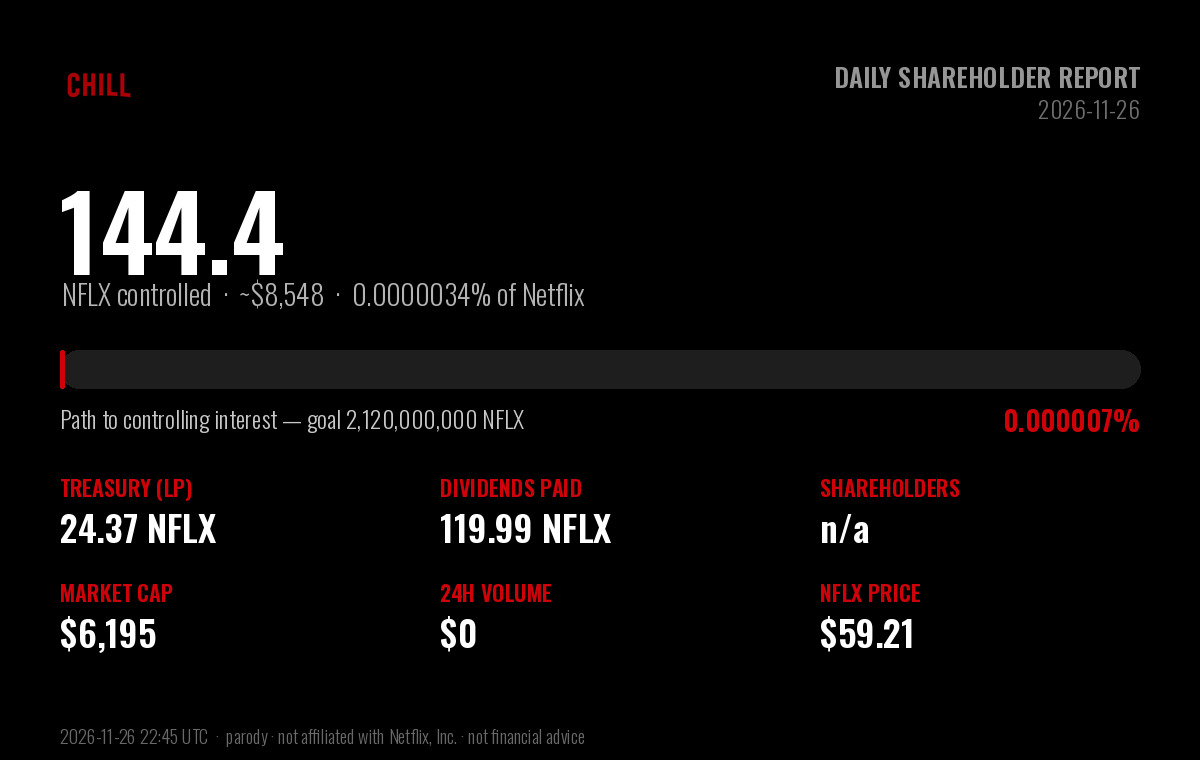
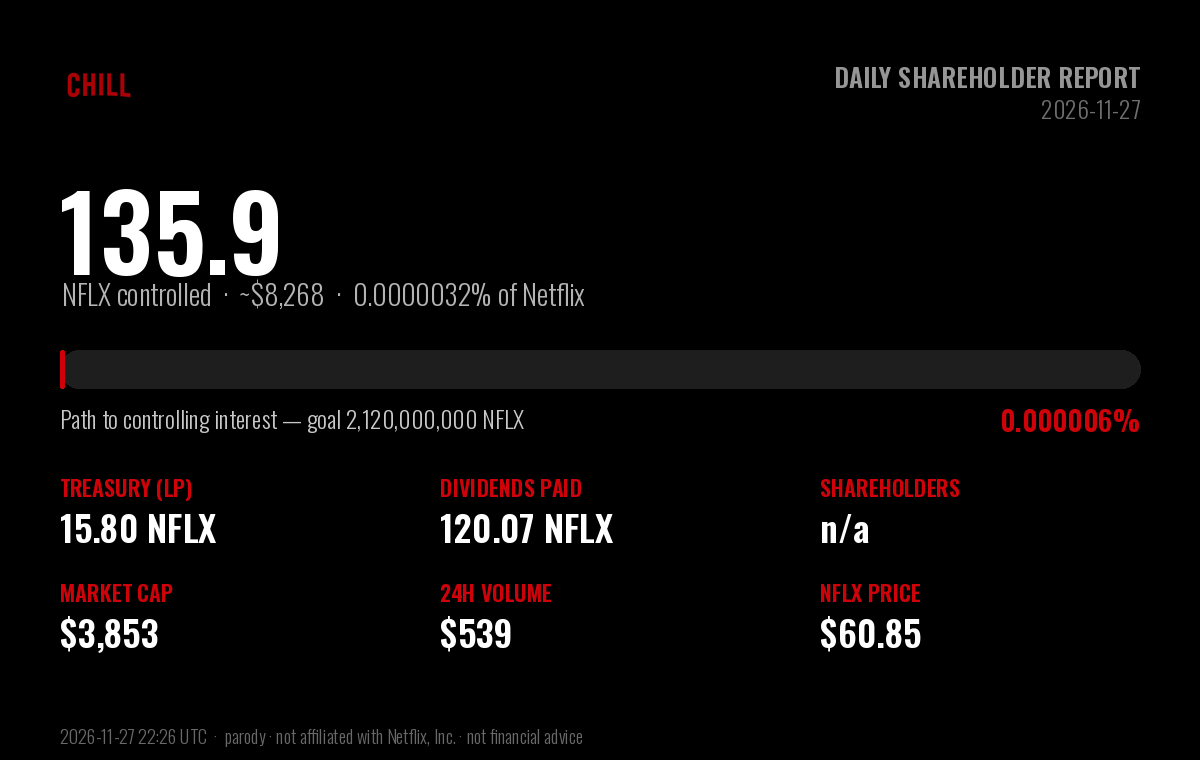
chore: daily $CHILL shareholder report (2026-11-27)

diff --git a/daily-holder-report/README.md b/daily-holder-report/README.md
@@ -1,6 +1,6 @@
 # $CHILL — Daily Shareholder Report
 
-### Netflix and Chill · Report to Shareholders · 2026-11-26
+### Netflix and Chill · Report to Shareholders · 2026-11-27
 
 > **Corporate objective:** acquire a controlling interest in Netflix (NFLX).
 > Netflix has **4,220,000,000** shares outstanding; a majority
@@ -13,53 +13,53 @@
 
 | Metric | Value |
 |---|---|
-| **NFLX under $CHILL control** | **144.36 NFLX** (~$8,548) |
-| Stake in Netflix | 0.000003421% of shares outstanding |
-| Progress to controlling interest | 0.0000068% of 2,120,000,000 |
-| Shares remaining to majority | 2,119,999,856 NFLX |
+| **NFLX under $CHILL control** | **135.88 NFLX** (~$8,268) |
+| Stake in Netflix | 0.000003220% of shares outstanding |
+| Progress to controlling interest | 0.0000064% of 2,120,000,000 |
+| Shares remaining to majority | 2,119,999,864 NFLX |
 
 ## Balance sheet — NFLX holdings
 
 | Holding | NFLX | USD |
 |---|---|---|
-| Treasury (protocol-owned liquidity) | 24.37 | $1,443 |
-| Dividends distributed to shareholders | 119.99 | $7,105 |
-| **Total NFLX controlled** | **144.36** | **$8,548** |
+| Treasury (protocol-owned liquidity) | 15.80 | $962 |
+| Dividends distributed to shareholders | 120.07 | $7,306 |
+| **Total NFLX controlled** | **135.88** | **$8,268** |
 
 ## Last 24 hours
 
 | Metric | Value |
 |---|---|
-| Trading volume | 0.00 NFLX (~$0) |
-| Net NFLX accumulated | 0.00 NFLX |
-| Dividends generated | 0.0000 NFLX |
-| Transactions | 0 (0 buys / 0 sells) |
-| $CHILL price change | -7.3% |
+| Trading volume | 8.86 NFLX (~$539) |
+| Net NFLX accumulated | -8.57 NFLX |
+| Dividends generated | 0.0886 NFLX |
+| Transactions | 16 (12 buys / 4 sells) |
+| $CHILL price change | -37.8% |
 
 ## Shareholder & market data
 
 | Metric | Value |
 |---|---|
 | Shareholders of record | n/a |
-| Lifetime unique participants | 1834 |
+| Lifetime unique participants | 1843 |
 | Shares outstanding ($CHILL) | 1,000,000,000 |
-| Market capitalization | $6,195 |
-| $CHILL price | $0.00000619 |
-| NFLX price | $59.21 |
-| Lifetime volume | 11,998.58 NFLX (~$710,456) |
-| Lifetime transactions | 8,653 (4,840 buys / 3,813 sells) |
-| Days since IPO (launch) | 130 |
+| Market capitalization | $3,853 |
+| $CHILL price | $0.00000385 |
+| NFLX price | $60.85 |
+| Lifetime volume | 12,007.44 NFLX (~$730,599) |
+| Lifetime transactions | 8,669 (4,852 buys / 3,817 sells) |
+| Days since IPO (launch) | 131 |
 
 ## Per-share metrics
 
 | Metric | Value |
 |---|---|
-| NFLX backing per 1M $CHILL | 0.144357 NFLX |
-| Dividends per 1M $CHILL | 0.119986 NFLX |
+| NFLX backing per 1M $CHILL | 0.135878 NFLX |
+| Dividends per 1M $CHILL | 0.120074 NFLX |
 
 ---
 
-*Report generated 2026-11-26 22:45 UTC · block 123,804,122 · data via the Sentry-Robinhood
+*Report generated 2026-11-27 22:26 UTC · block 124,584,936 · data via the Sentry-Robinhood
 subgraph and Robinhood Chain explorer.*
 
 **Disclaimer:** $CHILL is an independent, community-driven **parody** token. It is
